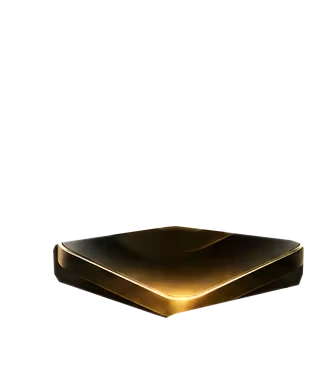
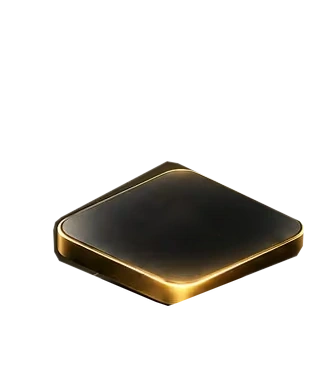
Repair broken Alpha Grind stack layers, tighten landing, quicken pulses and recenter hero

Changed region(s): [[0.1493, 0.4162, 0.9254, 0.8622]]

diff --git a/hub-frontend/app/apps/apps.module.css b/hub-frontend/app/apps/apps.module.css
@@ -18,8 +18,8 @@
 .subnavLinks a:hover,.subnavLinks a[aria-current=page]{color:#e7bc67!important}
 .eyebrow{margin:0;color:#d2ae64;font-size:10px;font-weight:750;letter-spacing:.23em;text-transform:uppercase}
 .eyebrow span{display:inline-block;width:19px;height:1px;background:#b99a58;vertical-align:middle;margin-right:8px}
-.hero{min-width:0;display:grid;grid-template-columns:minmax(0,1.13fr) minmax(0,.87fr);
-  gap:clamp(20px,3vw,46px);align-items:center;min-height:415px;padding:47px 0 32px}
+.hero{min-width:0;display:grid;grid-template-columns:minmax(0,1.08fr) minmax(0,.92fr);
+  gap:clamp(16px,2vw,28px);align-items:center;min-height:415px;padding:47px 0 32px}
 .heroCopy{min-width:0}
 .heroTitle{font-family:var(--font-display),ui-sans-serif,system-ui,sans-serif;
   font-size:clamp(34px,4.2vw,54px);line-height:1.15;letter-spacing:-.03em;
@@ -35,7 +35,7 @@
 .primaryAction:hover{background:linear-gradient(155deg,#f5ddab,#e7bc67);transform:translateY(-1px)}
 .heroMeta{display:flex;align-items:center;gap:9px;color:#8c8d96;font-size:9px;font-weight:650;letter-spacing:.12em;white-space:nowrap}
 .heroMeta i{width:3px;height:3px;border-radius:50%;background:#8d7b58}
-.heroVisual{display:flex;min-width:0;flex-direction:column;align-items:center;justify-content:center;gap:8px}
+.heroVisual{display:flex;min-width:0;flex-direction:column;align-items:center;justify-content:center;gap:8px;transform:translateX(-44px)}
 .stackArt{width:100%;max-width:365px;aspect-ratio:1/1;background:transparent}
 .visualCaption{color:#747780;font-size:9px;letter-spacing:.14em;text-align:center}
 .visualCaption span{color:#977941;padding:0 5px}
@@ -453,79 +453,55 @@
   .returnLink { margin-top: 20px; }
 }
 
-/* Independently isolated plate artwork, no duplicated complete-stack layers. */
+/* The three full original metal plates are independently reconstructed from a single undamaged plate. */
 .stackArt {
   position: relative;
   width: 100%;
-  max-width: 395px;
-  aspect-ratio: 335 / 370;
+  max-width: 340px;
+  aspect-ratio: 280 / 299;
   isolation: isolate;
   overflow: visible;
   background: transparent;
 }
 .stackPulseOverlay { display: block; width: 100%; height: 100%; overflow: visible; pointer-events: none; }
 .stackImageAlphaMask { mask-type: alpha; }
-.stackFallbackImage { position: absolute; inset: 0; width: 100%; height: 100%; object-fit: contain; }
-.stackBaseTile { filter: saturate(.60) brightness(.81) contrast(1.08); }
-.stackAssemblyLayer {
-  opacity: 0;
-  transform: translate3d(0,-105px,0);
-  will-change: transform, opacity;
-}
-.stackArt[data-entered="true"] .stackAssemblyBottom {
-  animation: alphaGrindTileDrop .88s cubic-bezier(.20,.72,.26,1) 0s both;
-}
-.stackArt[data-entered="true"] .stackAssemblyMiddle {
-  animation: alphaGrindTileDrop .88s cubic-bezier(.20,.72,.26,1) .43s both;
-}
-.stackArt[data-entered="true"] .stackAssemblyTop {
-  animation: alphaGrindTileDrop .88s cubic-bezier(.20,.72,.26,1) .86s both;
-}
+.stackFallbackImage { position:absolute; inset:0; width:100%; height:100%; object-fit:contain; }
+.stackBaseTile { filter: saturate(.53) brightness(.78) contrast(1.06); }
+.stackAssemblyLayer { opacity: 0; transform: translate3d(0,-68px,0); will-change:transform,opacity; }
+.stackArt[data-entered="true"] .stackAssemblyBottom { animation:alphaGrindTileDrop .56s cubic-bezier(.16,1,.3,1) 0s both; }
+.stackArt[data-entered="true"] .stackAssemblyMiddle { animation:alphaGrindTileDrop .56s cubic-bezier(.16,1,.3,1) .24s both; }
+.stackArt[data-entered="true"] .stackAssemblyTop { animation:alphaGrindTileDrop .56s cubic-bezier(.16,1,.3,1) .48s both; }
 @keyframes alphaGrindTileDrop {
-  0% { opacity: 0; transform: translate3d(0,-105px,0); }
-  14% { opacity: 1; }
-  76% { opacity: 1; transform: translate3d(0,2.5px,0); }
-  100% { opacity: 1; transform: translate3d(0,0,0); }
+  0% { opacity:0; transform:translate3d(0,-68px,0); }
+  18% { opacity:1; }
+  84% { transform:translate3d(0,1.5px,0); }
+  100% { opacity:1; transform:translate3d(0,0,0); }
 }
-.stackGroundShadow { opacity: 0; }
-.stackArt[data-entered="true"] .stackGroundShadow {
-  animation: alphaGrindShadowSettle .55s ease-out 1.32s both;
+.stackGroundShadow { opacity:0; }
+.stackArt[data-entered="true"] .stackGroundShadow { animation:alphaGrindShadowSettle .35s ease-out .78s both; }
+@keyframes alphaGrindShadowSettle { from {opacity:0;} to {opacity:.43;} }
+.stackPulsePlate {opacity:0; mix-blend-mode:screen;will-change:opacity;}
+.stackPulseBright {filter:sepia(.86) saturate(2) brightness(1.58) contrast(1.04);}
+.stackArt[data-entered="true"] .stackPulseTop,.stackArt[data-entered="true"] .stackPulseMiddle,.stackArt[data-entered="true"] .stackPulseBottom {
+ animation-duration:10s; animation-delay:1.25s; animation-iteration-count:infinite; animation-timing-function:cubic-bezier(.45,0,.55,1); animation-fill-mode:both;
 }
-@keyframes alphaGrindShadowSettle { from { opacity: 0; } to { opacity: .65; } }
-.stackPulsePlate { opacity: 0; mix-blend-mode: screen; will-change: opacity; }
-.stackPulseBright { filter: sepia(.88) saturate(2.25) brightness(1.72) contrast(1.05); }
-.stackArt[data-entered="true"] .stackPulseTop,
-.stackArt[data-entered="true"] .stackPulseMiddle,
-.stackArt[data-entered="true"] .stackPulseBottom {
-  animation-duration: 10s;
-  animation-delay: 1.95s;
-  animation-iteration-count: infinite;
-  animation-timing-function: cubic-bezier(.45,0,.55,1);
-  animation-fill-mode: both;
+.stackArt[data-entered="true"] .stackPulseTop {animation-name:alphaGrindGlowTop;}
+.stackArt[data-entered="true"] .stackPulseMiddle {animation-name:alphaGrindGlowMiddle;}
+.stackArt[data-entered="true"] .stackPulseBottom {animation-name:alphaGrindGlowBottom;}
+@keyframes alphaGrindGlowTop { 0% {opacity:0;} 5.25% {opacity:.76;} 10.5%,100% {opacity:0;} }
+@keyframes alphaGrindGlowMiddle { 0%,6.2% {opacity:0;} 11.45% {opacity:.76;} 16.7%,100% {opacity:0;} }
+@keyframes alphaGrindGlowBottom { 0%,12.4% {opacity:0;} 17.65% {opacity:.76;} 22.9%,100% {opacity:0;} }
+@media(max-width:880px) {.stackArt {max-width:345px;}}
+@media(max-width:650px) {.stackArt {max-width:315px;}}
+@media(prefers-reduced-motion:reduce) {
+ .stackAssemblyLayer {animation:none!important;transform:none!important;opacity:1!important;will-change:auto;}
+ .stackGroundShadow {animation:none!important;opacity:.43!important;}
+ .stackPulsePlate {animation:none!important;opacity:0!important;will-change:auto;}
 }
-.stackArt[data-entered="true"] .stackPulseTop { animation-name: alphaGrindGlowTop; }
-.stackArt[data-entered="true"] .stackPulseMiddle { animation-name: alphaGrindGlowMiddle; }
-.stackArt[data-entered="true"] .stackPulseBottom { animation-name: alphaGrindGlowBottom; }
-/* Full-tile gold activation: 1.45s each, stagger 1s, then ~6.55s rest. */
-@keyframes alphaGrindGlowTop {
-  0% { opacity: 0; }
-  7.25% { opacity: .72; }
-  14.5%, 100% { opacity: 0; }
+/* Keep the centered hero image inside the visual column at tablet/mobile widths. */
+@media (min-width:881px) and (max-width:1100px) {
+  .heroVisual { transform: translateX(-20px); }
 }
-@keyframes alphaGrindGlowMiddle {
-  0%, 10% { opacity: 0; }
-  17.25% { opacity: .72; }
-  24.5%, 100% { opacity: 0; }
-}
-@keyframes alphaGrindGlowBottom {
-  0%, 20% { opacity: 0; }
-  27.25% { opacity: .72; }
-  34.5%, 100% { opacity: 0; }
-}
-@media (max-width:880px) { .stackArt { max-width: 365px; } }
-@media (max-width:650px) { .stackArt { max-width: 335px; } }
-@media (prefers-reduced-motion: reduce) {
-  .stackAssemblyLayer { animation: none !important; transform: none !important; opacity: 1 !important; will-change: auto; }
-  .stackGroundShadow { animation: none !important; opacity: .65 !important; }
-  .stackPulsePlate { animation: none !important; opacity: 0 !important; will-change: auto; }
+@media (max-width:880px) {
+  .heroVisual { transform: none; }
 }

diff --git a/hub-frontend/app/apps/StackArtClient.tsx b/hub-frontend/app/apps/StackArtClient.tsx
@@ -4,7 +4,7 @@
 import { useEffect, useRef, useState } from "react";
 import styles from "./apps.module.css";
 
-/** Source-isolated plates: never animate three copies of the complete stack. */
+/** Three complete plates reconstructed from an intact metallic surface, maintaining the approved Alpha logo on the top tile only. */
 const plates = [
   { name: "bottom", source: "/apps/alpha-stack-tile-bottom.webp", drop: styles.stackAssemblyBottom, pulse: styles.stackPulseBottom },
   { name: "middle", source: "/apps/alpha-stack-tile-middle.webp", drop: styles.stackAssemblyMiddle, pulse: styles.stackPulseMiddle },
@@ -42,7 +42,7 @@ export function StackArtClient() {
     >
       <svg
         className={styles.stackPulseOverlay}
-        viewBox="0 0 335 370"
+        viewBox="39 26 280 299"
         preserveAspectRatio="xMidYMid meet"
         aria-hidden="true"
         focusable="false"
@@ -73,7 +73,7 @@ export function StackArtClient() {
         </defs>
         <ellipse
           className={styles.stackGroundShadow}
-          cx="169" cy="323" rx="112" ry="25"
+          cx="169" cy="310" rx="100" ry="19"
           fill="url(#alphaGrindFloorGlow)"
         />
         {plates.map((plate) => (
